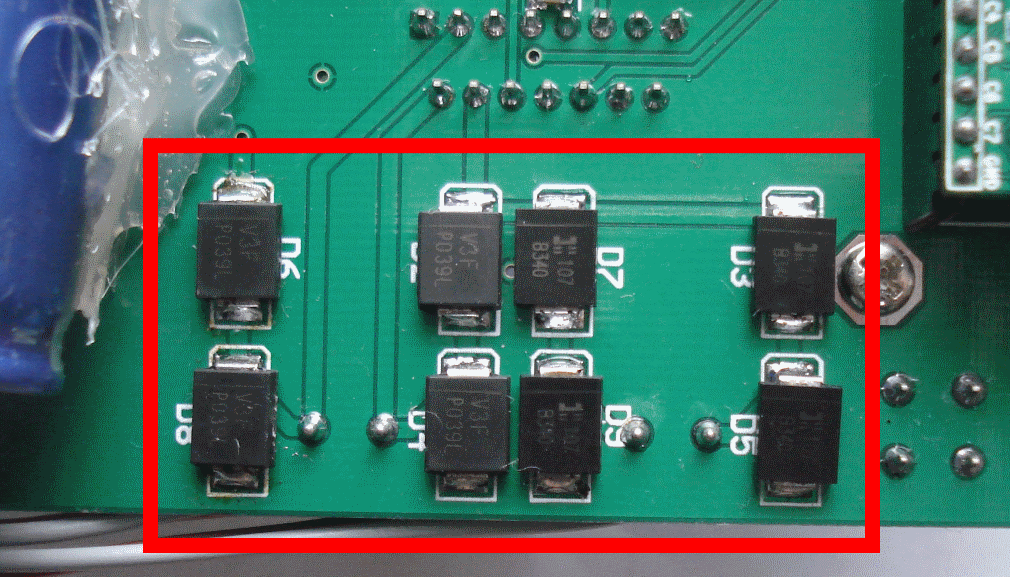
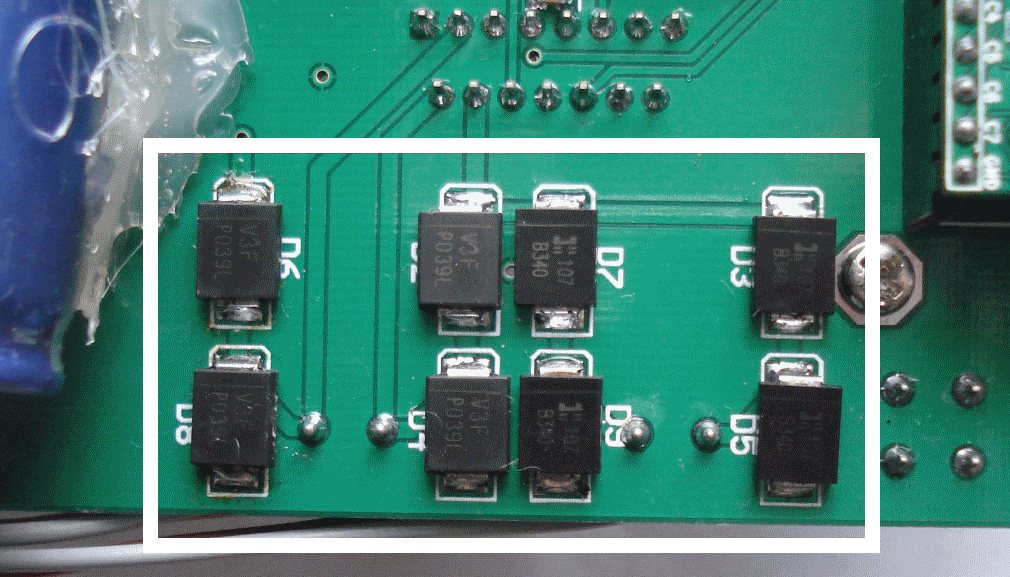
Thesis: Add additional text for the Firmware Modules section. Remove Host Application User guide appendix (not needed). Update figures to use white borders around highlighted areas of photos to ensure clarity when printed in black and white.

Changed region(s): [[0.1228, 0.2184, 0.8901, 0.9671]]

diff --git a/Thesis/Chapters/Chapter5.tex b/Thesis/Chapters/Chapter5.tex
@@ -44,12 +44,94 @@ In this section, each of the robot firmware's main software modules are listed a
 \FloatBarrier
 \subsection{Main System Control and Configuration}
 
-% TODO
+The main entry point and system loop of the firmware was contained into a single top level module. This module was then made responsible for the initial system hardware configuration, as well as the management of the main loop to dispatch the service task functions in each sub-module.
+
+\FloatBarrier
+\subsubsection{System Initialization}
+
+A series of initialization steps are followed during the hardware configuration step; first, the system watchdog (enabled if the chip was last reset through the expiry of the watchdog peripheral's timer) is disabled, the system CPU clock prescaler disabled to ensure the full 16MHz CPU clock speed is used, unused peripherals are powered down and the JTAG debug interface turned off so that the GPIO pins could be used for the RGB status LED. This latter procedure removes the ability to debug the firmware with an external JTAG debugger, however during development it was commented out.
+
+Next, the setup routine calls each hardware driver module's \lstinline{Init()} function, which serves to initialize each hardware module and configure the appropriate hardware ready for use. Finally, one of the robot's remaining 16-bit hardware timers is then configured to run at a 10ms period to serve as the master system tick for timeout management and time based events.
+
+\FloatBarrier
+\subsubsection{Start-up Tasks}
+
+Once all the system hardware is initialized, the main program flow then executes the start-up tasks; an informational message is displayed to the LCD while the RGB status LED sequences through all possible combinations, and the sensor platform is initialized to determine which sensors are currently connected. The state of each sensor is then displayed briefly onto the LCD using custom LCD character definitions before the main loop starts (see Figure \ref{fig:sensorinitlcd}).
+
+\begin{figure}[H]
+	\vspace{1em}
+	\centering
+		\includegraphics[width=70mm]{LCDSensorsOK.jpg}
+		\includegraphics[width=70mm]{LCDSensorsFail.jpg}
+	\rule{35em}{0.5pt}
+	\caption[LCD Sensor Status Information]{Photos of the LCD display showing sucessful (\textit{left}) and failed (\textit{right}) initialization.}
+	\label{fig:sensorinitlcd}
+\end{figure}
+
+\FloatBarrier
+\subsubsection{Main Program Loop}
+
+As is the case with virtually all embedded systems, the main program execution was contained in an infinite loop - each iteration of the loop would dispatch to the various sub-components of the system to manage and react to various stimuli. In the case of the robot firmware, the main loop contained three main functions; one, it checked for presses of either of the two physical buttons on the robot, two, it would check for expiry of the system tick timer to dispatch timing-related events, and three, it would execute the various hardware and software module service tasks.
+
+In the case of the two physical buttons, the first (top) button was assigned a soft-reset role, in the case of a communication failure which resulted in the robot's motors being left on and the system uncontrollable. This \textit{emergency stop} style functionality was implemented using the microcontroller's internal watchdog system to reset the microcontroller approximately 15ms after the button press was detected. The second physical button was assigned a mode-specific role, according to Table \ref{tab:buttonroles}.
+
+\begin{table}[tbph]
+	\vspace{1em}
+	\begin{center}
+		\begin{tabular}{ | l | l | }
+			\hline
+			\textbf{Mode} & \textbf{Function} \\ \hline
+
+			Bluetooth Mode & Initiates a connection to stored Bluetooth device address \\ \hline
+			HID Mode & \textit{Unused} \\ \hline
+			Mass Storage Mode & Enables sensor logging to the attached flash drive \\ \hline
+		\end{tabular}
+		\caption[Mode Specific Button Roles]{Table showing the function of the mode-specific physical pushbutton.}
+		\label{tab:buttonroles}
+	\end{center}
+\end{table}
+
+Each time the main loop detected that the system update tick timer period had elapsed, it would notify all timing-dependant hardware modules of this fact; for example, the LCD driver relies on these updates to automatically fade the LCD backlight brightness after a given period of inactivity. Also performed in this section is the update of the sensor values via the sensor platform at regular intervals, and the logging of this data either to the attached Mass Storage USB disk (if logging is enabled) or an established virtual serial connection to a remote PC via Bluetooth.
 
 \FloatBarrier
 \subsection{Hardware Drivers}
 
 At the point at which the abstract software in the device needed to interact with the physical board hardware, a set of hardware abstraction drivers was created. These drivers served to encapsulate the functionality of the physical hardware and expose that functionality to the rest of the firmware via a set of basic control API functions. Not every driver sought to expose all the possibile abilities of the hardware; due to time constraints only those features actually required by the prototype robot firmware were implemented in most cases.
+
+\FloatBarrier
+\subsubsection{Buttons Driver}
+
+The hardware for the board button driver was, as expected, very simple; no debouncing was implemented in the driver itself, as this was not found to be neccesary in the firmware - adequate debouncing could be achieved elsewhere in the code instead via the software flags the buttons controlled.
+
+As a result, the completed button driver implementation was trivial, consisting only of a configuration routine to configure the appropriate GPIO lines as inputs with the microcontroller's internal pull-up resistors enabled, and a status routine to read and mask out the appropriate port lines.
+
+\FloatBarrier
+\subsubsection{External SRAM Driver}
+
+While the selected AT90USB1287 microcontroller contained 8KB of SRAM internally for stack, global variables and other working-set data, an external 128KB SRAM IC was mounted externally on the microcontroller board. This memory was attached to the AVR's external memory interface bus, and could then be used to extend the SRAM memory space at the cost of an extra CPU cycle for each external bus access.
+
+Unfortunately, while this external SRAM memory use a 17-bit address, the AVR's external memory bus interface is only 16-bits wide. As a result, a small software shim driver was required to perform manual bank swapping when required to select one of the two halves of memory. This means that the external 128KB memory is divided into two 64KB memory banks, only one of which may be selected at one time.
+
+\FloatBarrier
+\subsubsection{Headlights Driver}
+
+Like the button driver, the headlight driver contained only a thin wrapper around the GPIO pin used to control the robot's headlights. Latching of the headlight state was achieved through the GPIO hardware itself; once set to a particular state, the headlights would remain in that state (illuminated or not) until changed by a subsequent call to the module's update routine.
+
+\FloatBarrier
+\subsubsection{LCD Driver}
+
+The LCD chosen for the robot contained a chipset compatible with the HD44780 display controller, common to many embedded systems where complex graphics are not required. As a result, there is already a plethora of LCD drivers available on the internet from hobbyists and from most microcontroller silicon vendors. Despite this, a simple custom LCD driver was written from scratch for the project, to ensure that as much of the project as was practical remained under the sole author's copyright and distribution control.
+
+Despite the direct hardware connection to the LCD display's \textit{R/W} pin (for read/write control) the final driver code used a more basic hard-coded busy-wait delay method to ensure the display's timing was met. This practise proved to be the easiest to implement however for better performance this would have to be re-written as a polling scheme of the LCD controller's busy flag.
+
+\FloatBarrier
+\subsubsection{Motor Driver}
+
+\FloatBarrier
+\subsubsection{RGB LED Driver}
+
+\FloatBarrier
+\subsubsection{Speaker Driver}
 
 \FloatBarrier
 \subsection{Sensor Platform}
@@ -81,7 +163,27 @@ Of note is the use of a C \textit{union} to contain the retrieved sensor data, a
 \FloatBarrier
 \subsubsection{Individual Sensor Drivers}
 
-Each individual sensor connected to the board requires an individual sensor driver, specific to that make and model of sensor IC.
+Each individual sensor connected to the board requires a custom sensor driver, specific to that make and model of sensor IC. Unique to each sensor is the sequence required to set up the sensor to a known set of default configuration parameters (see Table \ref{tab:sensorconfig}), as well as the exact command set, address of the I\superscript{2}C bus, and optional use of control/interrupt GPIO lines used in the sensor's operation.
+
+\begin{table}[tbph]
+	\vspace{1em}
+	\begin{center}
+		\begin{tabular}{ | l | l | l | l | }
+			\hline
+			\textbf{Sensor}	& \textbf{Type}	& \textbf{I\superscript{2}C Address} & \textbf{Settings} \\ \hline
+
+			AK8975 & Direction & 0x0C & N/A \\ \hline
+			BMA150 & Acceleration & 0x38 & \vtop{\hbox{\strut 25Hz bandwidth,} \hbox{\strut +/-2g range,} \hbox{\strut Interrupt line enabled}} \\ \hline
+			BMP085 & Pressure & 0x77 & N/A \\ \hline
+			ITG3200 & Orientation & 0x68 & \vtop{\hbox{\strut 100Hz at an internal sampling rate of 1KHz, } \hbox{\strut Low Pass Filter to use 20Hz bandwidth,} \hbox{\strut Gyroscope X axis PLL as the clock source,} \hbox{\strut Interrupt line enabled}} \\ \hline
+			ITG3200 & Temperature & 0x68 & N/A \textit{(Virtual Sensor)} \\ \hline
+		\end{tabular}
+		\caption[Sensor Configuration]{Table showing the sensors used and their configuration properties.}
+		\label{tab:sensorconfig}
+	\end{center}
+\end{table}
+
+To ensure the interface into each individual sensor driver was as uniform as possible, the exact implementation details was hidden from external modules, with each driver exposing just two functions; an \lstinline{Init()} function to initialize the sensor, and an \lstinline{Update()} function to pull the latest values from the sensor if it has completed a conversion. To prevent slow sensors from introducing unneccesary lag into the system, the update functions would abort if the next conversion was not ready at the point in time that the function was called, and the sensor entry structure would retain the previously retrieved sensor value.
 
 \FloatBarrier
 \subsection{USB Management}

diff --git a/Thesis/Chapters/Chapter2.tex b/Thesis/Chapters/Chapter2.tex
@@ -2,7 +2,7 @@
 \label{Chapter 2}
 \lhead{Chapter 2. \emph{Existing Implementations}}
 
-Before work was started on the proposed software Bluetooth stack implementation, the existing field of Bluetooth stacks (both commercial and non-commercial) were evaluated.
+Before work was started on the proposed software Bluetooth stack implementation, the existing field of Bluetooth stacks (both commercial and non-commercial) were evaluated to determine what capabilities are being offered.
 
 \section{Classes of Existing Stacks}
 
@@ -43,7 +43,7 @@ Below the discovered existing Bluetooth stacks are listed in parametric form for
 	\end{center}
 \end{table}
 
-As expected, the vast majority of existing OS based Bluetooth stacks are targeted towards the Microsoft2 Windows operating system, due to its large market share. In almost all cases, the existing stacks were found to support a rich number of Bluetooth services, in both device and server roles. While the majority of the Bluetooth stacks on the market are commercialized (i.e. require payment or hardware purchase for a license to use them) there are still several free and open source stacks available for the various Linux and BSD kernels.
+As expected, the vast majority of existing OS based Bluetooth stacks are targeted towards the Microsoft Windows operating system, due to its large market share. In almost all cases, the existing stacks were found to support a rich number of Bluetooth services, in both device and server roles. While the majority of the Bluetooth stacks on the market are commercialized (i.e. require payment or hardware purchase for a license to use them) there are still several free and open source stacks available for the various Linux and BSD kernels.
 
 % TODO
 

diff --git a/Thesis/Appendices/SourceCode.tex b/Thesis/Appendices/SourceCode.tex
@@ -2,8 +2,8 @@
 \label{Appendix B}
 \lhead{Appendix B. \emph{Source Code}}
 
-The complete project source code is available for download online, due to its siginficant size. Both the robot firmware and the embedded Bluetooth stack may be viewed and modified according to the licence agreements included at the top of each project file.
+The complete project source code is available for download online, due to its significant size. Both the robot firmware and the embedded Bluetooth stack may be viewed and modified according to the licence agreements included at the top of each source file in the download package.
 
 \section{Obtaining the Source Code}
 
-All relevant material relating to this project (including source code, schematics, and this document) may be obtained from the official project page, located at \\ \href{http://fourwalledcubicle.com/ExplorerBot.php}{\textit{http://fourwalledcubicle.com/ExplorerBot.php}}.
+All relevant material relating to this project (including source code, schematics, and this document) may be obtained from the official project page, located at \\ \href{http://www.fourwalledcubicle.com/ExplorerBot.php}{\textit{http://www.fourwalledcubicle.com/ExplorerBot.php}}.

diff --git a/Thesis/Thesis.tex b/Thesis/Thesis.tex
@@ -126,6 +126,7 @@
 	\textbf{PWM} & \textbf{P}ulse \textbf{W}idth \textbf{M}odulation \\
 	\textbf{RTOS} & \textbf{R}eal \textbf{T}ime \textbf{O}perating \textbf{S}ystem \\
 	\textbf{SDP} & Bluetooth \textbf{S}ervice \textbf{D}iscovery \textbf{P}rotocol \\
+	\textbf{SRAM} & \textbf{S}tatic \textbf{R}andom \textbf{A}ccess \textbf{M}emory \\
 }
 %% ----------------------------------------------------------------
 \addtocontents{toc}{\vspace{1em}} % Add a gap in the Contents, for aesthetics
@@ -135,7 +136,6 @@
 	\input{./Appendices/SourceCode}	
 	\input{./Appendices/StackAPIGuide}
 	\input{./Appendices/RobotUserGuide}
-	\input{./Appendices/HostAppUserGuide}
 	
 \addtocontents{toc}{\vspace{2em}}  % Add a gap in the Contents, for aesthetics
 \backmatter

diff --git a/Thesis/Figures/SensorPlatformEntry.c b/Thesis/Figures/SensorPlatformEntry.c
@@ -6,8 +6,7 @@ typedef struct
 	/* Human-readable name of the sensor, stored in SRAM. */
 	const char* Name;
 	
-	/* Indicates if the sensor data is represented as a single value,
-	   or a triplicate of three axis values. */
+	/* Indicates if the sensor data is represented as a single value, or a triplicate of three axis values. */
 	bool SingleAxis;
 	
 	/* Last retrieved data from the sensor. */	
@@ -16,7 +15,7 @@ typedef struct
 		/* Sensor data if the sensor outputs a single axis value. */
 		int32_t Single;
 	
-		/* Sensor data if the sensor outputs a triplicate of three axis values. */
+		/* Sensor data if the sensor outputs three axis values. */
 		struct
 		{
 			/* X axis value of the triplicate. */

diff --git a/Thesis/Chapters/Chapter6.tex b/Thesis/Chapters/Chapter6.tex
@@ -21,3 +21,12 @@
 	\caption[Tested Working Controllers]{Tested consumer grade Bluetooth enabled devices: \\ Playstation 3 controller \textit{(left)}, Nintendo Wii controller \textit{(middle)}, Sony-Ericcson z550i mobile phone \textit{(right)} }
 	\label{fig:workingbtcontrollers}
 \end{figure}
+
+\begin{figure}[tbph]
+	\vspace{1em}
+	\centering
+		\includegraphics[width=150mm]{SensorDataApp.png}
+	\rule{35em}{0.5pt}
+	\caption[Sensor Logging Host Application]{Sensor logging application, showing data streaming wirelessly from the connected robot via a Bluetooth virtual serial port. }
+	\label{fig:sensorhostapp}
+\end{figure}
